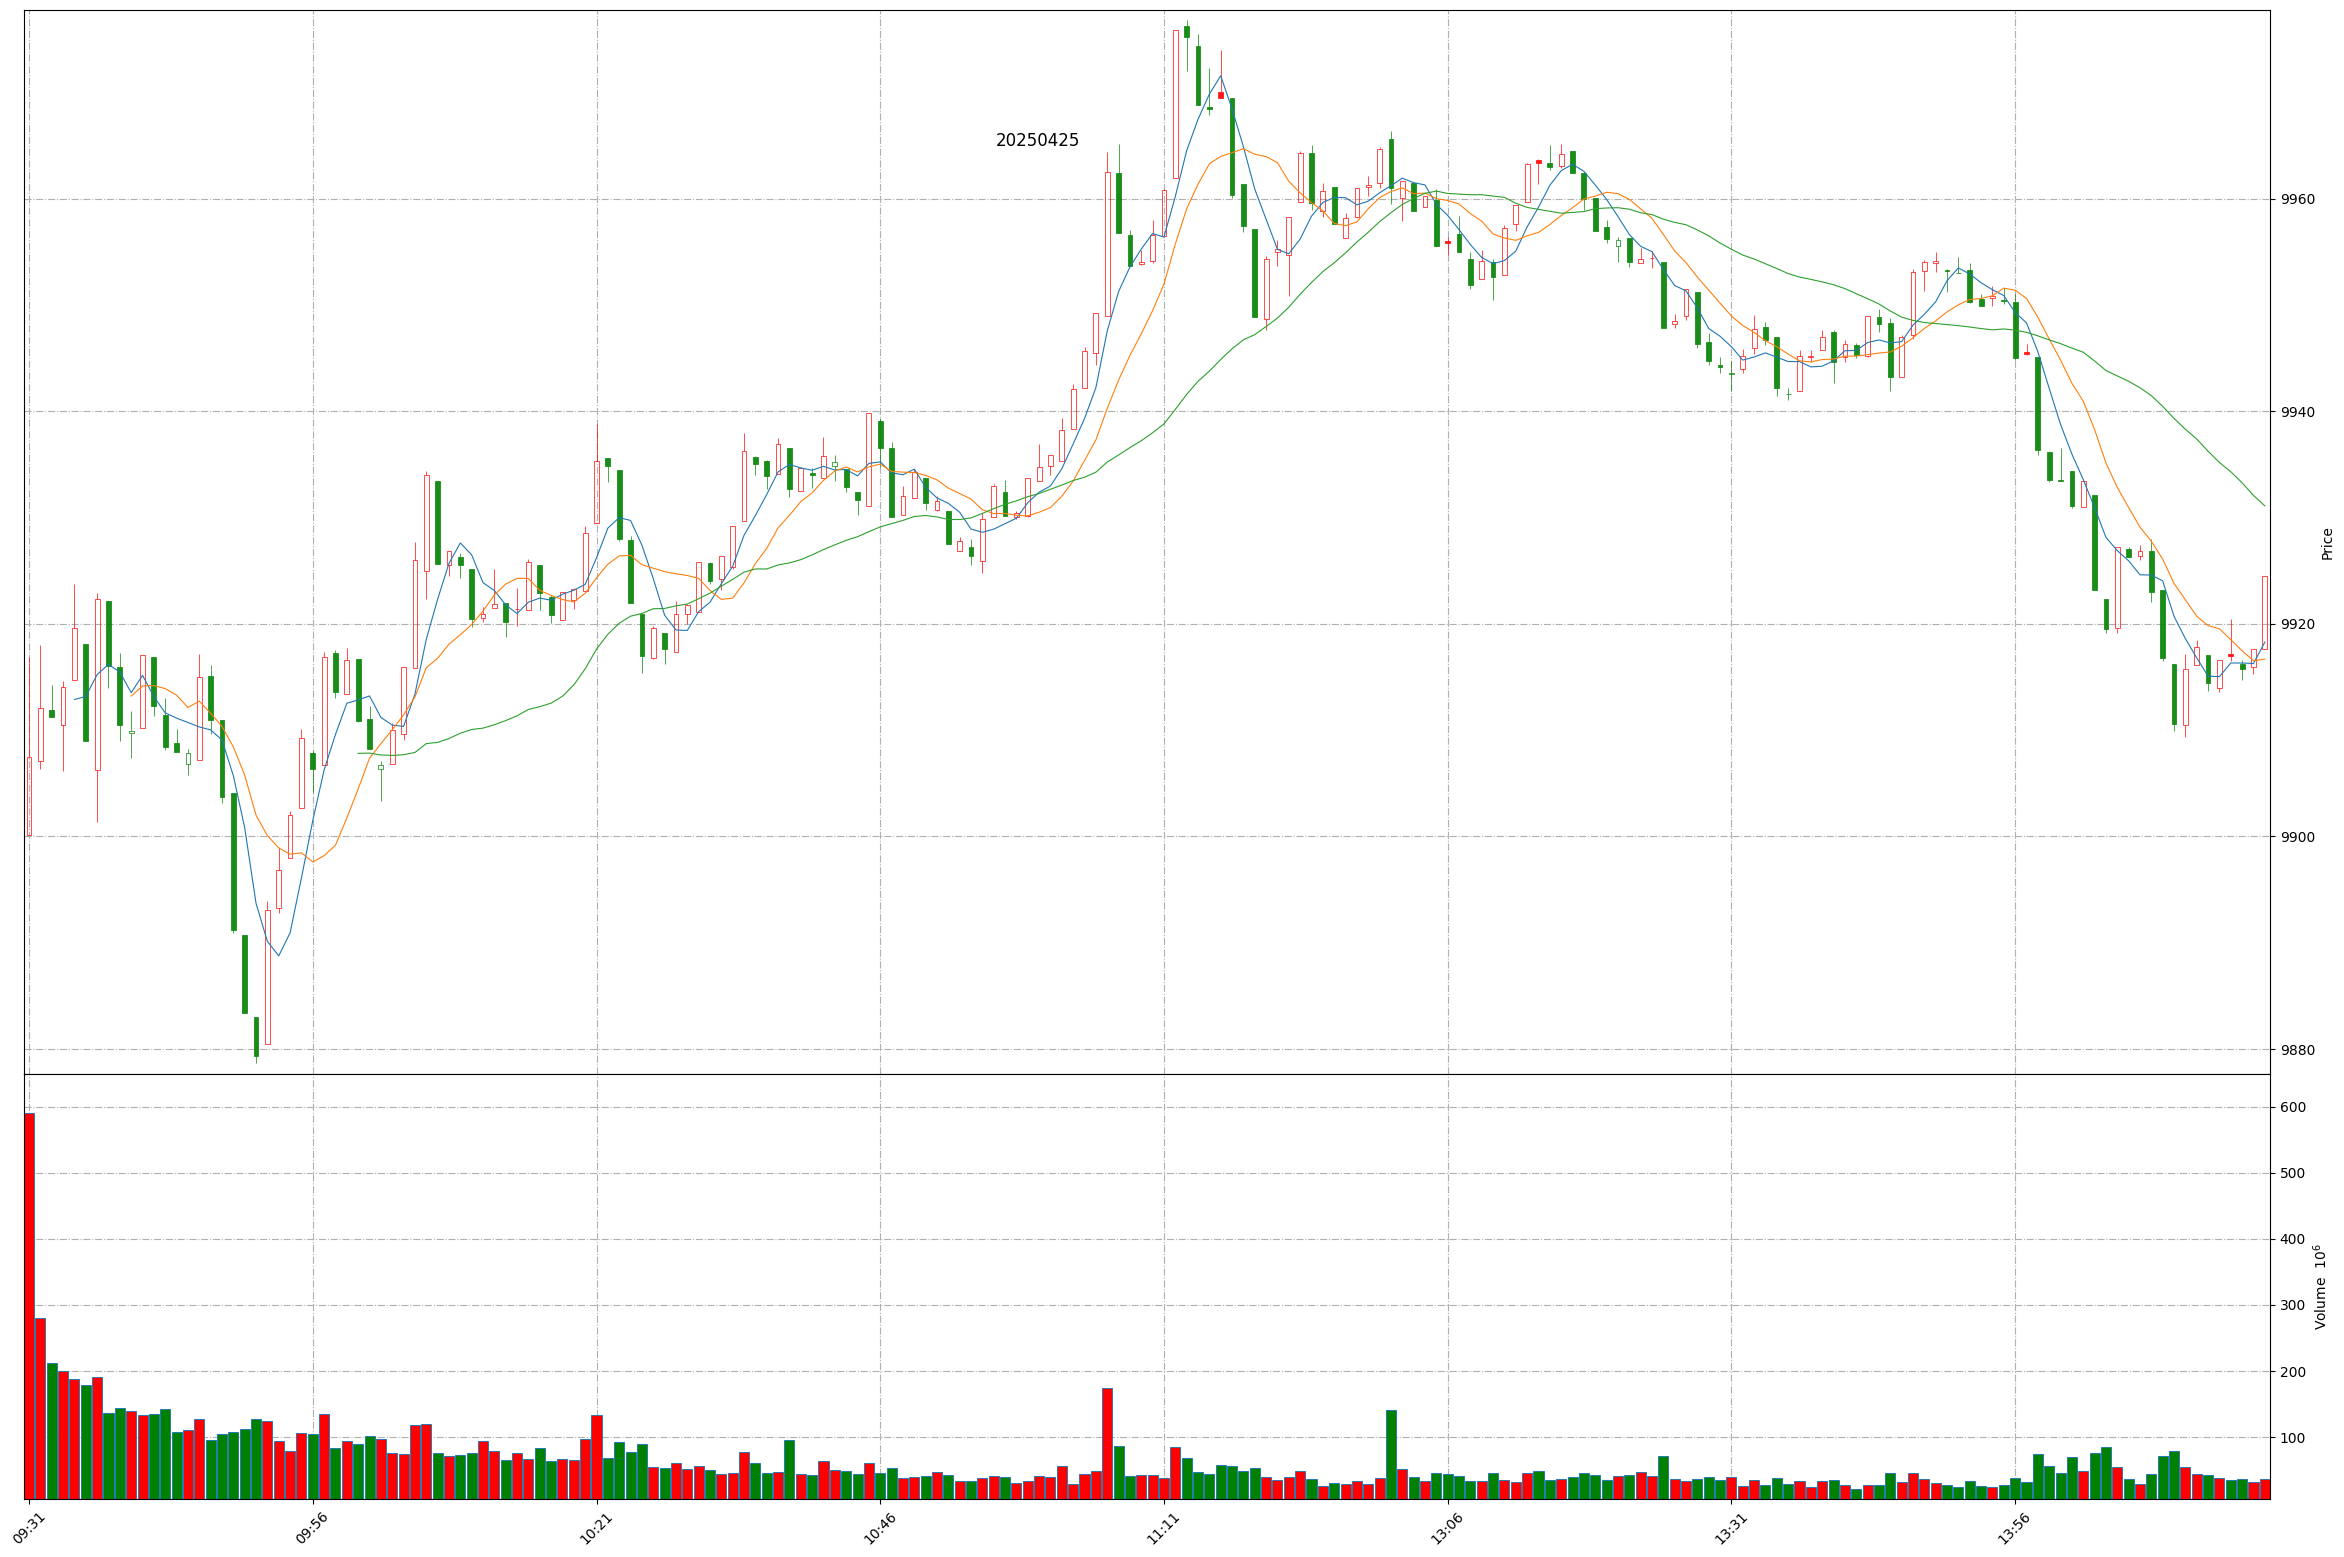
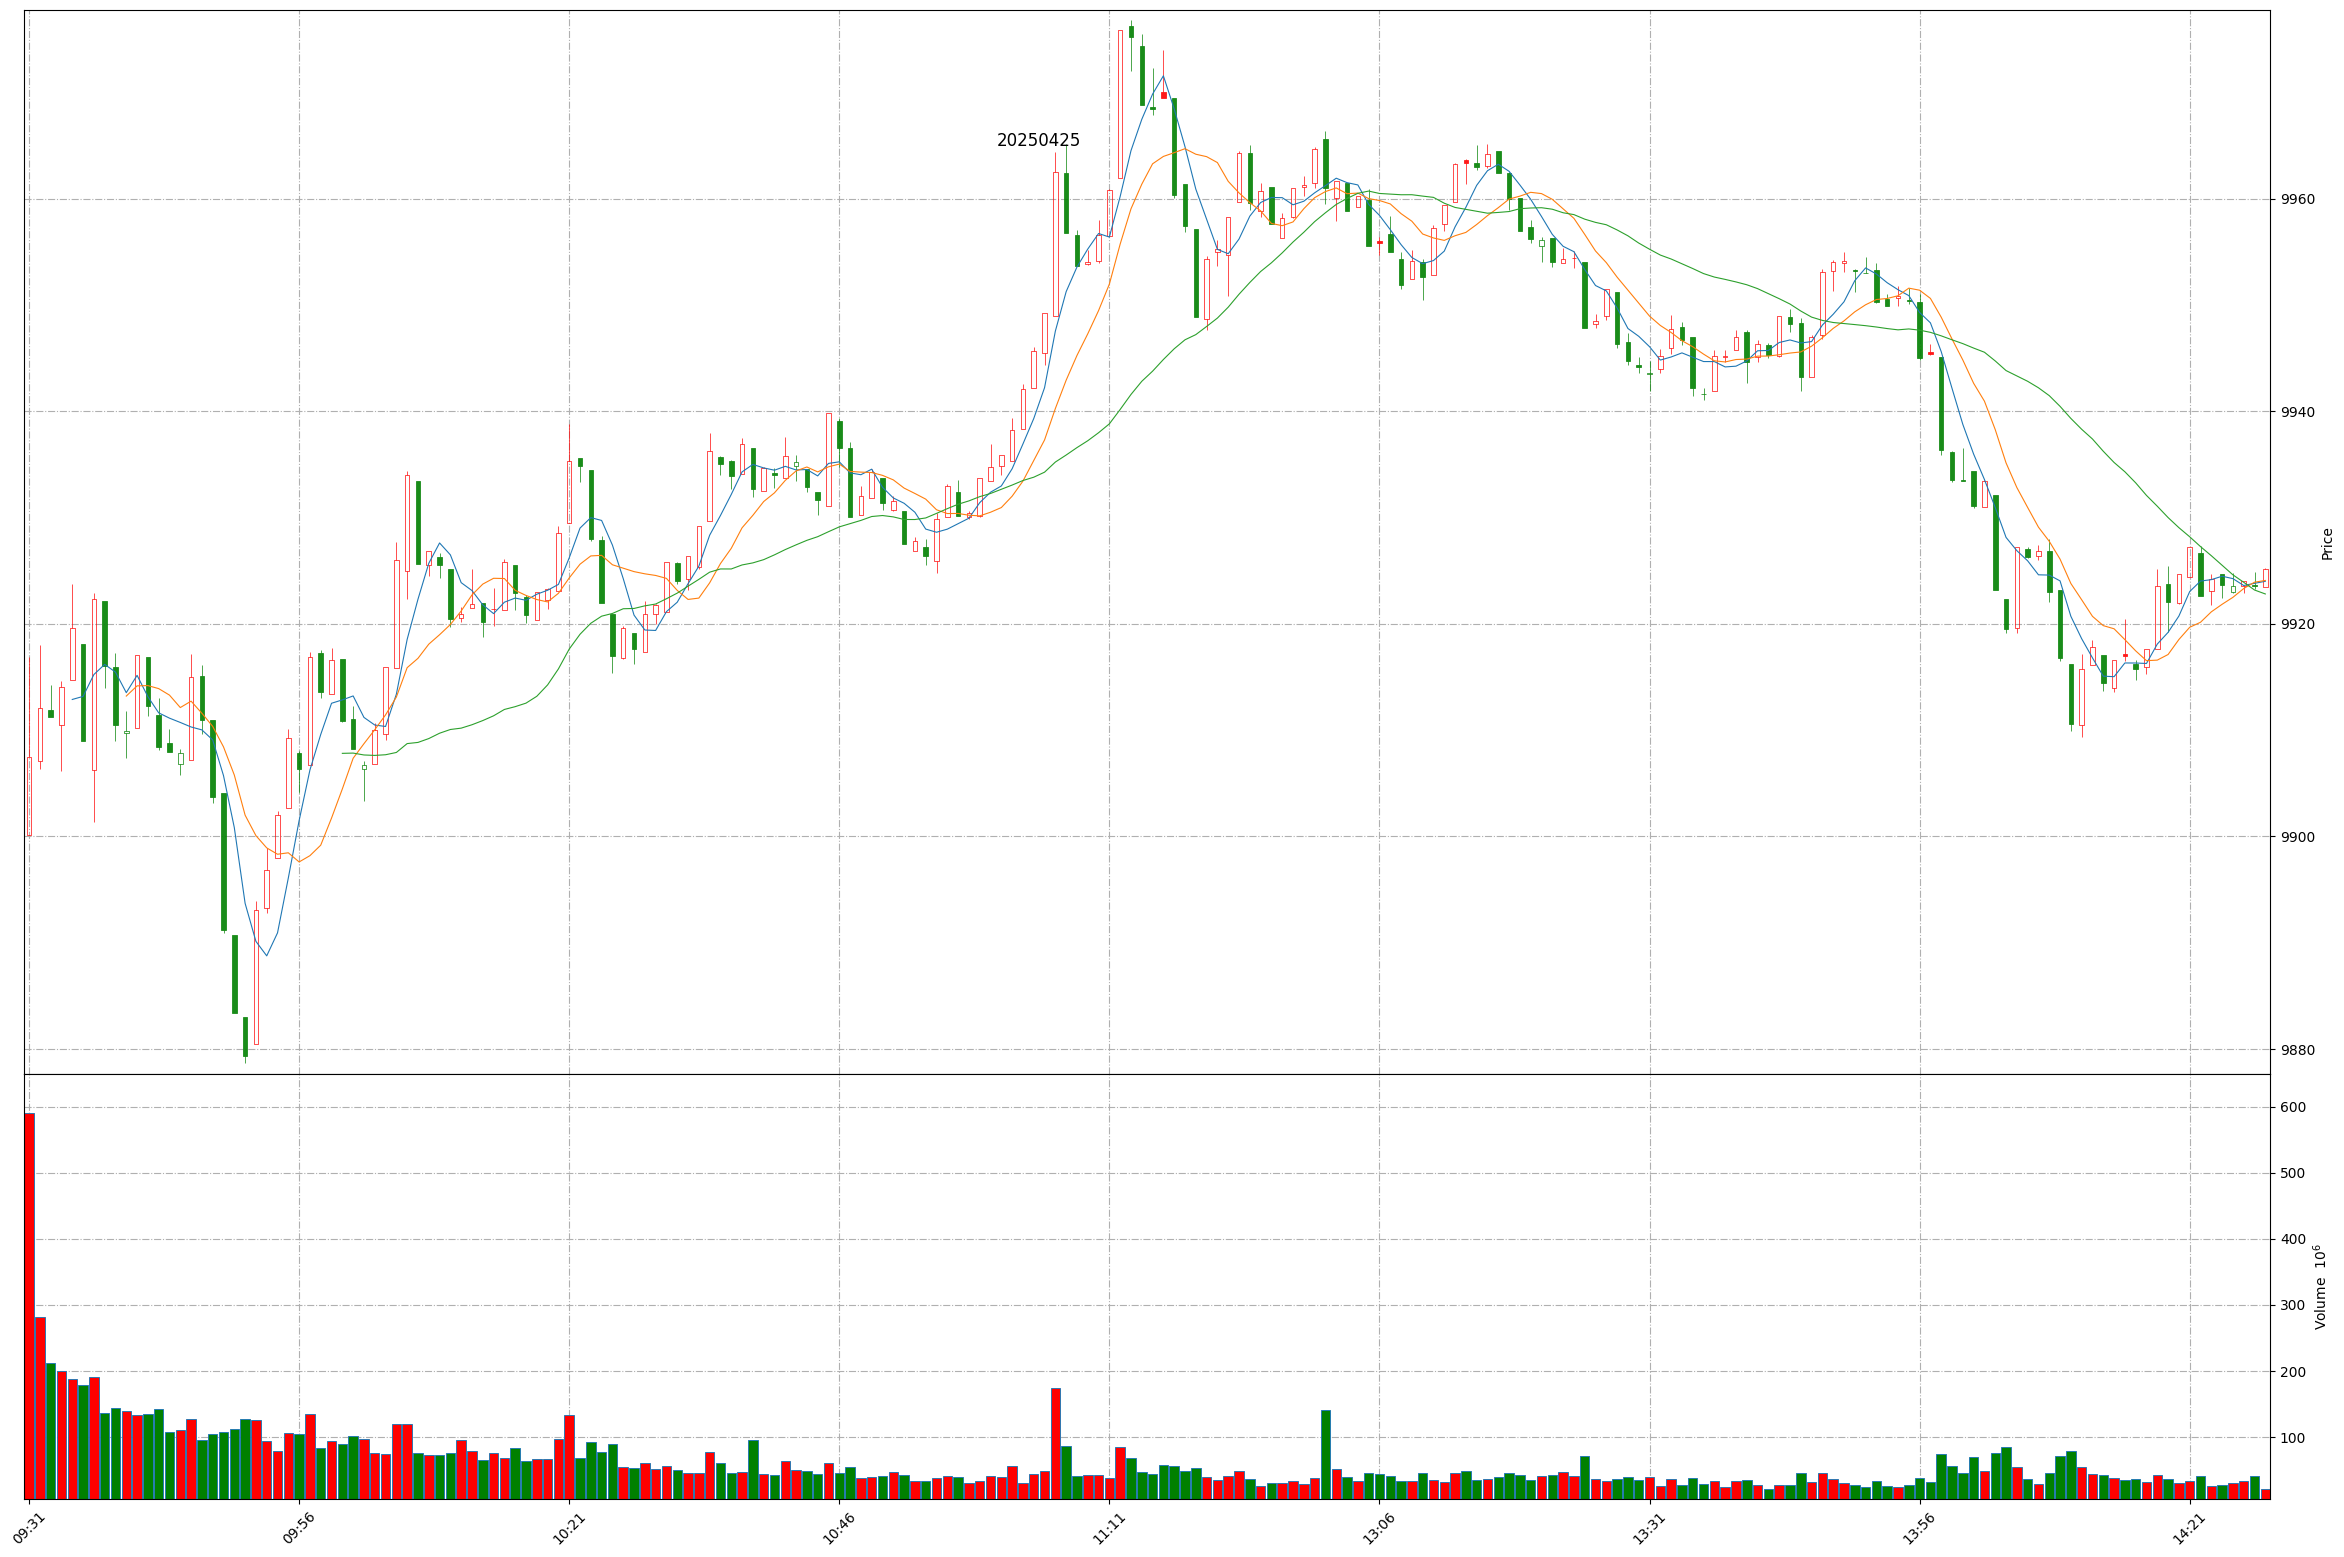
Github action update at 2025-04-25 14:27:43.

Changed region(s): [[0.0311, 0.0308, 0.9654, 0.6782], [0.0, 0.894, 0.9654, 0.9865]]

diff --git a/README.md b/README.md
@@ -1,11 +1,11 @@
 
 # Daily-A-share-market-quotes 每日 A 股指数（5min 更新）- 20250425
 
-### 上证指数 20250425 14:18
+### 上证指数 20250425 14:27
 ![](./fig/2025/4/20250425-sh000001.png)
 
-### 深证成指 20250425 14:18
+### 深证成指 20250425 14:27
 ![](./fig/2025/4/20250425-sz399001.png)
 
-### 北证50 20250425 14:18
+### 北证50 20250425 14:27
 ![](./fig/2025/4/20250425-bj899050.png)
